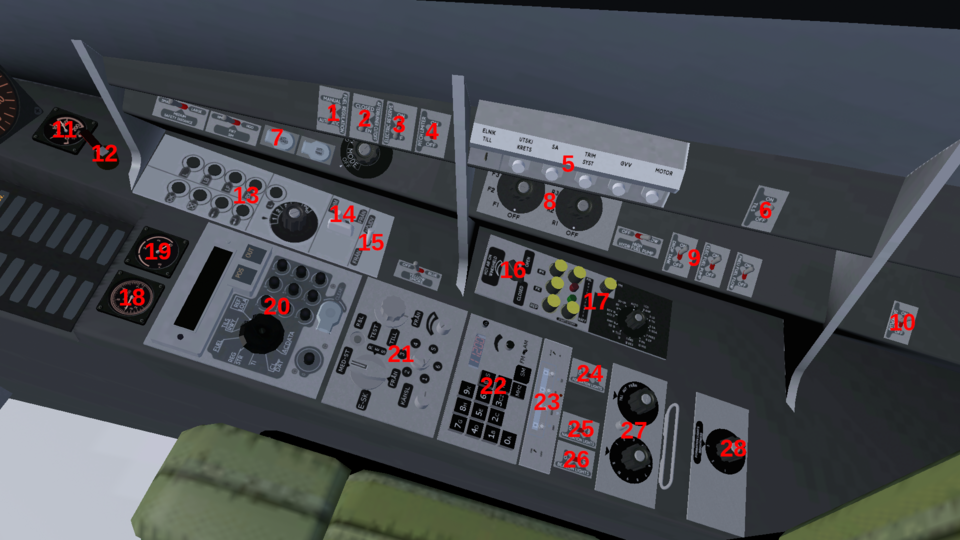
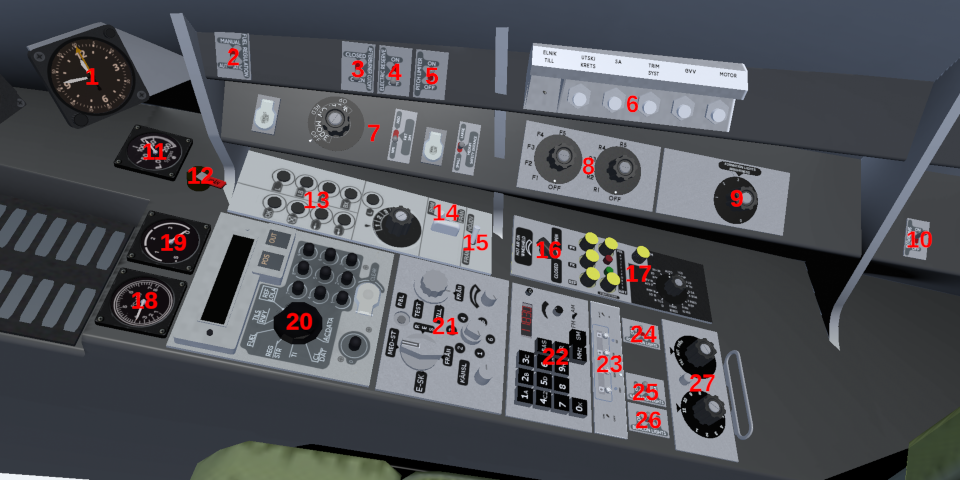
Manual: Panel overview for right and AJS left
Update cockpit overview following 3D model changes (several elements
moved on right panel, new FR 22 panel on the left).

diff --git a/Documentation/manual.tex b/Documentation/manual.tex
@@ -127,7 +127,7 @@ Using the latest stable FlightGear version is generally recommended.
       \item \label{item:autopilot} Autopilot pushbuttons/lights
       \item \label{item:autothrottle-lights} Autothrottle lights
       \item \label{item:airspeed} Airspeed/Mach indicator
-      \item Radio frequency selector
+      \item \label{item:frequency-sel} FR 22 comm.\ radio frequency selector
       \item \label{item:aoa} Angle of attack indicator
       \item \label{item:master-warning} Master warning lights and button
       \item \label{item:hud-bright} HUD brightness knobs
@@ -153,7 +153,7 @@ Using the latest stable FlightGear version is generally recommended.
     }
       \item Parking brake handle
     \ifbool{AJS}{
-      \item \label{item:clock} Clock
+      \item \label{item:clock} Clock / chronometer
       \item \label{item:hud-switch} HUD settings switches
       \item \label{item:attitude-bck} Backup attitude indicator
       \item \label{item:altimeter-bck} Backup altimeter
@@ -200,7 +200,7 @@ Using the latest stable FlightGear version is generally recommended.
       \item Backup trim controls
       \item Yaw trim centered light
       \item Trim reset button
-      \item Radio control panel (not implemented)
+      \item \label{item:fr29} \ifbool{AJS}{FR 24}{FR 29} comm.\ radio panel
       \item Canopy jettison button
       \item Radar control panel (not implemented)
     \AJSonly{\item \label{item:main-mode} Main mode selector knob}
@@ -208,9 +208,11 @@ Using the latest stable FlightGear version is generally recommended.
       \item Generator switch
       \item Master power switch
       \item Fuel cutoff switch
-    \JAonly{
-      \item Comm.\ radio channel selector KV1
-      \item Datalink channel selector KV3
+    \ifbool{AJS}{
+      \item \label{item:fr22} FR 22 comm.\ radio channel selector
+    }{
+      \item \label{item:kv1} Comm.\ radio channel selector KV1
+      \item \label{item:kv3} Datalink channel selector KV3
     }
       \item Warning lights test button
       \item Roll trim centered light
@@ -231,15 +233,21 @@ Using the latest stable FlightGear version is generally recommended.
 
   \begin{multicols}{2}
     \begin{enumerate}[nosep]
+    \JAonly{
+      \item \label{item:clock} Clock / chronometer
+    }
       \item Automatic fuel regulator switch
       \item Afterburner cutoff switch
       \item Emergency ram air turbine switch
       \item Pitch gearing switch
       \item Fuses panel
-      \item ILS switch
       \item Weapons panel
+    \ifbool{AJS}{
+      \item Transponder
+    }{
       \item Countermeasures panel
-      \item Manual fuel control switches
+      \item Formation lights intensity knob
+    }
       \item Ignition plug switch
     \AJSonly{
       \item \label{item:nozzle} Nozzle position indicator
@@ -252,11 +260,10 @@ Using the latest stable FlightGear version is generally recommended.
       \item DME switch---no functionality
     }
       \item Navigation panel
-    \AJSonly{
+    \ifbool{AJS}{
       \item TILS channel selection knob
       \item TILS channel group switch
-    }
-    \JAonly{
+    }{
       \item Radar altimeter switch
       \item GPWS switch
     }
@@ -269,14 +276,16 @@ Using the latest stable FlightGear version is generally recommended.
       \item Data panel \AJSonly{(not implemented)}
       \item RWR control panel
     \JAonly{
-      \item Comm.\ radio FR31 panel
-    }
+      \item \label{item:fr31} Comm.\ radio FR 31 panel
       \item Transponder
+    }
       \item Formation lights switch
       \item Navigation lights switch
       \item Anti-collision lights switch
       \item \label{item:iff} Identification transponder panel
+    \AJSonly{
       \item Formation lights intensity knob
+    }
     \end{enumerate}
   \end{multicols}
 
@@ -383,16 +392,16 @@ Using the latest stable FlightGear version is generally recommended.
 }{\includegraphics[width=0.7\textwidth]{images/instruments/accelerometer}}
 
 
-\AJSonly{
 \sidepicture{
-  \paragraph{Clock (\cockpitref{fig:front-panel}{item:clock})}
-  The clock has two scales. The inner scale and the white pointers indicates time.
+  \paragraph{Chronometer \ifbool{AJS}{(\cockpitref{fig:front-panel}{item:clock})}{(\cockpitref{fig:right-panel}{item:clock})}}
+  The chronometer has two scales. The inner scale and the white pointers indicate time.
   The outer scale and the yellow pointers are used for the stopwatch.
   The lower-left knob is used to adjust time.
   The top-right button controls the stopwatch.
   The first push starts the stopwatch, the second push stops it, and the third push resets it.
 }{\includegraphics[width=0.7\textwidth]{images/instruments/clock}}
 
+\AJSonly{
 \sidepicture{
   \paragraph{Waypoint Distance Indicator (\cockpitref{fig:front-panel}{item:wpdist})}
   Indicates the distance to the next waypoint.
@@ -674,12 +683,13 @@ by the following operations (called `flip-flop').
 
 \subsection{FR \ifbool{AJS}{24}{29} Radio Panel}
 \ifbool{AJS}{%
-  The FR 24 radio panel is used to set the operating mode and volume of both the FR 22 and FR 24,
-  as well as the FR 24 channel.
+  The FR 24 radio panel (\cockpitref{fig:left-panel}{item:fr29}) is used to set
+  the operating mode and volume of both the FR 22 and FR 24, as well as the FR 24 channel.
   In FlightGear, it is not correctly modelled, and is replaced by the FR 29 panel
   from the JA variant, which has a similar purpose.
 }{
-  The FR 29 radio panel is used to set the operating mode and volume of the FR 29.
+  The FR 29 radio panel (\cockpitref{fig:left-panel}{item:fr29}) is used to set 
+  the operating mode and volume of the FR 29.
 }
 \begin{figure}[h]
   \centering
@@ -706,13 +716,15 @@ The radio operation modes, selected with the \ifbool{AJS}{FR 24}{FR 29} panel kn
       An additional receiver integrated in the FR 28 monitors the guard channel 121.5MHz.
     }
   \item[N (NORM)] Same as N+L, without the guard channel receiver\AJSonly{. FR 24 is inactive}.
-  \item[E,F,G,H] Sets the corresponding global channel\AJSonly{ for the FR24.  FR 22 is inactive}.
+  \item[E,F,G,H] Sets the corresponding global channel\AJSonly{ for the FR 24.  FR 22 is inactive}.
   \item[M,L] \ifbool{AJS}{No functionality.}{Sets the corresponding custom channel.}
 \end{description}
 
 \ifbool{AJS}{
   \subsection{FR 22 Channel and Frequency Selectors}
-  Frequency or channel for the FR 22 radio is set through the FR 22 channel selector and frequency selector.
+  Frequency or channel for the FR 22 radio is set through the
+  FR 22 channel selector (\cockpitref{fig:left-panel}{item:fr22})
+  and frequency selector (\cockpitref{fig:front-panel}{item:frequency-sel}).
 
   \begin{figure}[h]
     \centering
@@ -725,7 +737,7 @@ The radio operation modes, selected with the \ifbool{AJS}{FR 24}{FR 29} panel kn
       \item \label{item:channel-base} Airbase channel buttons A/G, B, C/F, C2, D/E.
       \item \label{item:knob-group} Channel group knob and display (showing channel group 06).
       \item \label{item:knob-base} Airbase knob and display (showing airbase 21).
-        Every sixth position shows ALLM (`general').
+        Every sixth position shows ALLM/GEN.
       \item \label{item:channel-group} Channel buttons 0 to 9.
     \end{enumerate}
     \caption{FR 22 channel selector panel}
@@ -754,8 +766,8 @@ The radio operation modes, selected with the \ifbool{AJS}{FR 24}{FR 29} panel kn
   For instance, set the group number to 06 and press button 2 for channel 062.
 }{
   \subsection{KV1 and KV3 Channel Selectors}
-  The KV1 is used to set the channel of frequency for the FR 29 comm radio.
-  The KV3 is used to set the datalink channel.
+  The KV1 (\cockpitref{fig:left-panel}{item:kv1}) is used to set the channel of frequency for the FR 29 comm radio.
+  The KV3 (\cockpitref{fig:left-panel}{item:kv3}) is used to set the datalink channel.
 
   \begin{figure}[h]
     \centering
@@ -806,7 +818,7 @@ The radio operation modes, selected with the \ifbool{AJS}{FR 24}{FR 29} panel kn
   respectively generic channel.
   E.g.\ if airbase channel 21A is selected and in use, pressing button 1/B will switch to channel 21B.
 
-  \subsection{FR 31 Radio Panel}
+  \subsection{FR 31 Radio Panel (\cockpitref{fig:right-panel}{item:fr31})}
   \begin{figure}[h]
     \centering
     \includegraphics[width=0.6\textwidth]{images/controls/fr31.png}
